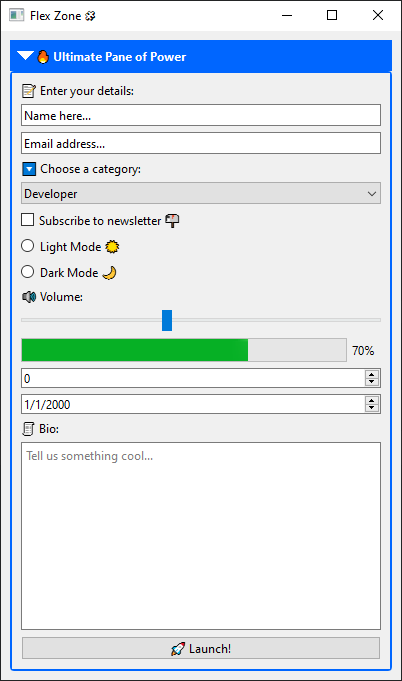
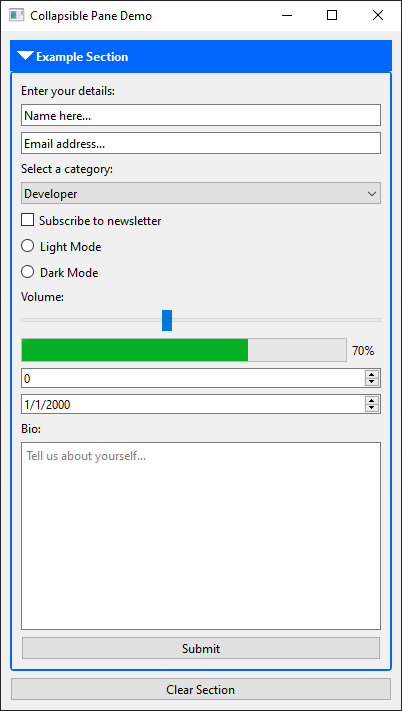
example updated

diff --git a/example.py b/example.py
@@ -13,12 +13,12 @@ from collapsiblepane import CollapsiblePane
 class Window(QMainWindow):
     def __init__(self, parent=None):
         super().__init__(parent)
-        self.setWindowTitle("Flex Zone 🧩")
+        self.setWindowTitle("Collapsible Pane Demo")
 
         # Create the collapsible pane
-        section = CollapsiblePane("🔥 Ultimate Pane of Power", 150, self)
+        section = CollapsiblePane("Example Section", 150, self)
 
-        # 🎨 Customize title bar
+        # Customize title bar appearance
         section.set_title_bar_style(background_color="#0066ff", foreground_color="#FFFFFF")
         section.set_content_style(
             background_color="#FFFFFF",
@@ -27,24 +27,24 @@ class Window(QMainWindow):
             border_style="solid"
         )
 
-        # 💎 Create a widget to hold the layout
+        # Create a widget to hold form elements
         content_widget = QWidget()
         content_layout = QVBoxLayout(content_widget)
 
-        content_layout.addWidget(QLabel("📝 Enter your details:"))
+        content_layout.addWidget(QLabel("Enter your details:"))
         content_layout.addWidget(QLineEdit("Name here..."))
         content_layout.addWidget(QLineEdit("Email address..."))
 
-        content_layout.addWidget(QLabel("🔽 Choose a category:"))
+        content_layout.addWidget(QLabel("Select a category:"))
         combo = QComboBox()
-        combo.addItems(["Developer", "Designer", "Hacker", "Wizard"])
+        combo.addItems(["Developer", "Designer", "Security Researcher", "Engineer"])
         content_layout.addWidget(combo)
 
-        content_layout.addWidget(QCheckBox("Subscribe to newsletter 📬"))
-        content_layout.addWidget(QRadioButton("Light Mode ☀"))
-        content_layout.addWidget(QRadioButton("Dark Mode 🌙"))
+        content_layout.addWidget(QCheckBox("Subscribe to newsletter"))
+        content_layout.addWidget(QRadioButton("Light Mode"))
+        content_layout.addWidget(QRadioButton("Dark Mode"))
 
-        content_layout.addWidget(QLabel("🔊 Volume:"))
+        content_layout.addWidget(QLabel("Volume:"))
         slider = QSlider(Qt.Horizontal)
         slider.setValue(40)
         content_layout.addWidget(slider)
@@ -56,27 +56,29 @@ class Window(QMainWindow):
         content_layout.addWidget(QSpinBox())
         content_layout.addWidget(QDateEdit())
 
-        content_layout.addWidget(QLabel("🧾 Bio:"))
+        content_layout.addWidget(QLabel("Bio:"))
         text_edit = QTextEdit()
-        text_edit.setPlaceholderText("Tell us something cool...")
+        text_edit.setPlaceholderText("Tell us about yourself...")
         content_layout.addWidget(text_edit)
 
-        content_layout.addWidget(QPushButton("🚀 Launch!"))
+        content_layout.addWidget(QPushButton("Submit"))
 
-        # Set the content widget using the property
+        # Set the content widget
         section.content_widget = content_widget
 
-
-        # 🌟 Main layout
-        # 🌟 Main layout
+        # Main layout setup
         container = QWidget()
         main_layout = QVBoxLayout(container)
         main_layout.addWidget(section)
-        button=QPushButton(self)
-        main_layout.addWidget(button)
-        button.clicked.connect(section.clear_widget)
-        main_layout.setAlignment(section, Qt.AlignTop)  # <--- THIS does the magic
+
+        # Button to clear collapsible pane content
+        clear_button = QPushButton("Clear Section", self)
+        clear_button.clicked.connect(section.clear_widget)
+        main_layout.addWidget(clear_button)
+
+        main_layout.setAlignment(section, Qt.AlignTop)
         self.setCentralWidget(container)
+
 
 if __name__ == "__main__":
     app = QApplication(sys.argv)

diff --git a/README.MD b/README.MD
@@ -34,12 +34,12 @@ from collapsiblepane import CollapsiblePane
 class Window(QMainWindow):
     def __init__(self, parent=None):
         super().__init__(parent)
-        self.setWindowTitle("Flex Zone 🧩")
+        self.setWindowTitle("Collapsible Pane Demo")
 
         # Create the collapsible pane
-        section = CollapsiblePane("🔥 Ultimate Pane of Power", 150, self)
+        section = CollapsiblePane("Example Section", 150, self)
 
-        # 🎨 Customize title bar
+        # Customize title bar appearance
         section.set_title_bar_style(background_color="#0066ff", foreground_color="#FFFFFF")
         section.set_content_style(
             background_color="#FFFFFF",
@@ -48,24 +48,24 @@ class Window(QMainWindow):
             border_style="solid"
         )
 
-        # 💎 Create a widget to hold the layout
+        # Create a widget to hold form elements
         content_widget = QWidget()
         content_layout = QVBoxLayout(content_widget)
 
-        content_layout.addWidget(QLabel("📝 Enter your details:"))
+        content_layout.addWidget(QLabel("Enter your details:"))
         content_layout.addWidget(QLineEdit("Name here..."))
         content_layout.addWidget(QLineEdit("Email address..."))
 
-        content_layout.addWidget(QLabel("🔽 Choose a category:"))
+        content_layout.addWidget(QLabel("Select a category:"))
         combo = QComboBox()
-        combo.addItems(["Developer", "Designer", "Hacker", "Wizard"])
+        combo.addItems(["Developer", "Designer", "Security Researcher", "Engineer"])
         content_layout.addWidget(combo)
 
-        content_layout.addWidget(QCheckBox("Subscribe to newsletter 📬"))
-        content_layout.addWidget(QRadioButton("Light Mode ☀"))
-        content_layout.addWidget(QRadioButton("Dark Mode 🌙"))
+        content_layout.addWidget(QCheckBox("Subscribe to newsletter"))
+        content_layout.addWidget(QRadioButton("Light Mode"))
+        content_layout.addWidget(QRadioButton("Dark Mode"))
 
-        content_layout.addWidget(QLabel("🔊 Volume:"))
+        content_layout.addWidget(QLabel("Volume:"))
         slider = QSlider(Qt.Horizontal)
         slider.setValue(40)
         content_layout.addWidget(slider)
@@ -77,27 +77,29 @@ class Window(QMainWindow):
         content_layout.addWidget(QSpinBox())
         content_layout.addWidget(QDateEdit())
 
-        content_layout.addWidget(QLabel("🧾 Bio:"))
+        content_layout.addWidget(QLabel("Bio:"))
         text_edit = QTextEdit()
-        text_edit.setPlaceholderText("Tell us something cool...")
+        text_edit.setPlaceholderText("Tell us about yourself...")
         content_layout.addWidget(text_edit)
 
-        content_layout.addWidget(QPushButton("🚀 Launch!"))
+        content_layout.addWidget(QPushButton("Submit"))
 
-        # Set the content widget using the property
+        # Set the content widget
         section.content_widget = content_widget
 
-
-        # 🌟 Main layout
-        # 🌟 Main layout
+        # Main layout setup
         container = QWidget()
         main_layout = QVBoxLayout(container)
         main_layout.addWidget(section)
-        button=QPushButton(self)
-        main_layout.addWidget(button)
-        button.clicked.connect(section.clear_widget)
-        main_layout.setAlignment(section, Qt.AlignTop)  # <--- THIS does the magic
+
+        # Button to clear collapsible pane content
+        clear_button = QPushButton("Clear Section", self)
+        clear_button.clicked.connect(section.clear_widget)
+        main_layout.addWidget(clear_button)
+
+        main_layout.setAlignment(section, Qt.AlignTop)
         self.setCentralWidget(container)
+
 
 if __name__ == "__main__":
     app = QApplication(sys.argv)
@@ -105,6 +107,7 @@ if __name__ == "__main__":
     window.resize(400, 300)
     window.show()
     sys.exit(app.exec())
+
 ```
 
 ---
@@ -115,7 +118,6 @@ if __name__ == "__main__":
 |---------------------------------------------------------------------------------------------------------------------------| -------- |
 | ![Collapsed View](https://raw.githubusercontent.com/mjk22071998/CollapsiblePane/refs/heads/main/screenshot/collapsed.PNG) |![Expanded View](https://raw.githubusercontent.com/mjk22071998/CollapsiblePane/refs/heads/main/screenshot/expanded.PNG)|
 
-> Ensure these URLs point to actual image files in your GitHub repo. Raw links must be used for PyPI to render them.
 
 ---
 
@@ -145,5 +147,5 @@ CollapsiblePane(title="", animation_duration=100)
 ---
 
 ## Contributions
-For contributions olease visit [Github Repository](https://github.com/mjk22071998/CollapsiblePane)
+For contributions please visit [Github Repository](https://github.com/mjk22071998/CollapsiblePane)
 
